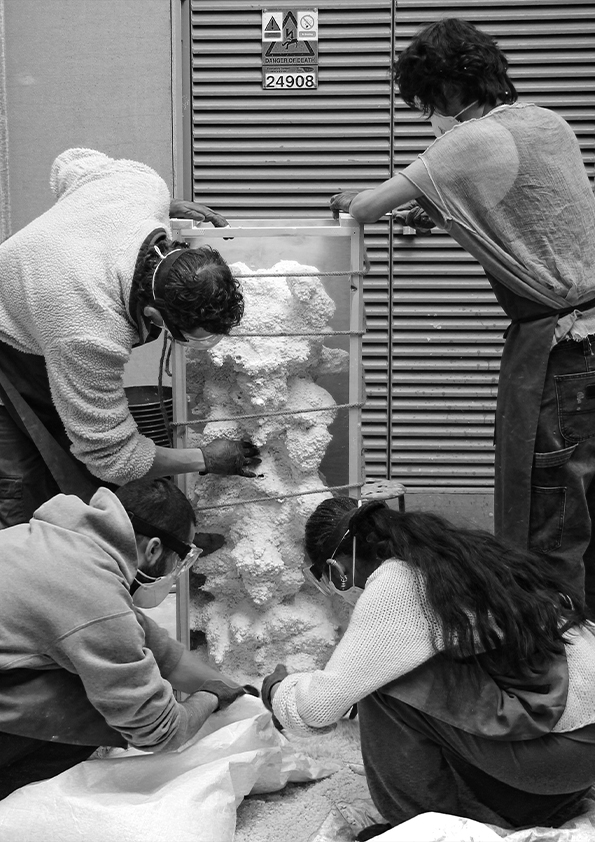
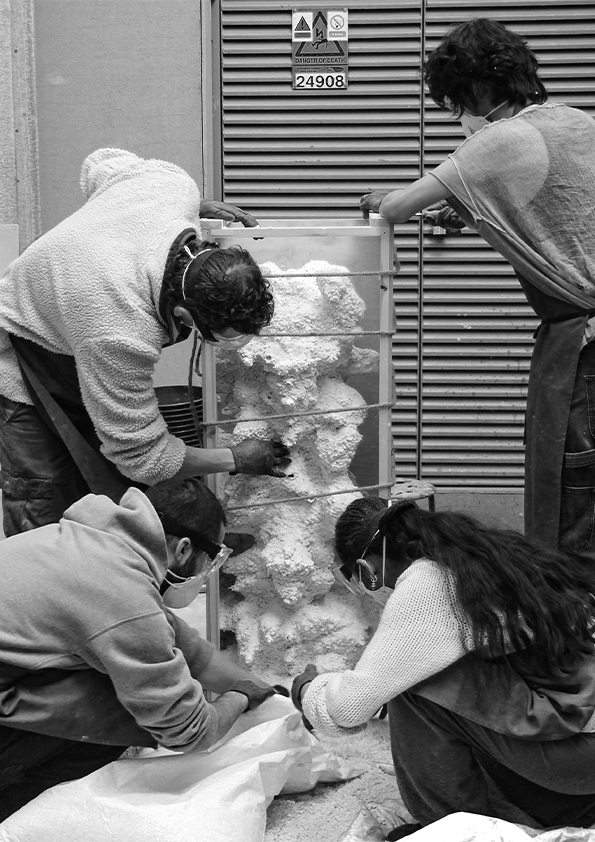
Chapter 1: switch images to JPG; update C3d3
Replace the six Chapter 1 PNG images with same-name JPG versions in
chapter1.html and library.html, and drop the now-unused PNGs (including
the orphaned C1d2.png). Update the C3d3 image with the new render.

diff --git a/library.html b/library.html
@@ -41,12 +41,12 @@
       <a href="#" class="details-btn" id="detailsBtn" style="display:none;">Details</a>
       <div class="image-stack" id="imageStack">
         <!-- Chapter 1 -->
-        <img src="webpics/C1d1.png" alt="C1d1" class="stack-card" data-chapter="1" data-index="0">
-        <img src="webpics/C1d3.png" alt="C1d3" class="stack-card" data-chapter="1" data-index="1">
-        <img src="webpics/C1d4.png" alt="C1d4" class="stack-card" data-chapter="1" data-index="2">
-        <img src="webpics/C1d5.png" alt="C1d5" class="stack-card" data-chapter="1" data-index="3">
-        <img src="webpics/C1d6.png" alt="C1d6" class="stack-card" data-chapter="1" data-index="4">
-        <img src="webpics/C1d7.png" alt="C1d7" class="stack-card" data-chapter="1" data-index="5">
+        <img src="webpics/C1d1.jpg" alt="C1d1" class="stack-card" data-chapter="1" data-index="0">
+        <img src="webpics/C1d3.jpg" alt="C1d3" class="stack-card" data-chapter="1" data-index="1">
+        <img src="webpics/C1d4.jpg" alt="C1d4" class="stack-card" data-chapter="1" data-index="2">
+        <img src="webpics/C1d5.jpg" alt="C1d5" class="stack-card" data-chapter="1" data-index="3">
+        <img src="webpics/C1d6.jpg" alt="C1d6" class="stack-card" data-chapter="1" data-index="4">
+        <img src="webpics/C1d7.jpg" alt="C1d7" class="stack-card" data-chapter="1" data-index="5">
         <!-- Chapter 2 -->
         <img src="webpics/C2d1.jpg" alt="C2d1" class="stack-card" data-chapter="2" data-index="0">
         <img src="webpics/C2d2.jpg" alt="C2d2" class="stack-card" data-chapter="2" data-index="1">

diff --git a/chapter1.html b/chapter1.html
@@ -54,12 +54,12 @@
         <p class="ref-text">AUGMENTED MATERIALITY: MODELLING WITH MATERIAL INDETERMINACY</p>
       </div>
       <div class="image-stack" id="imageStack">
-        <img src="webpics/C1d1.png" alt="Research image 1" class="stack-card" data-index="0">
-        <img src="webpics/C1d3.png" alt="Research image 2" class="stack-card" data-index="1">
-        <img src="webpics/C1d4.png" alt="Research image 3" class="stack-card" data-index="2">
-        <img src="webpics/C1d5.png" alt="Research image 4" class="stack-card" data-index="3">
-        <img src="webpics/C1d6.png" alt="Research image 5" class="stack-card" data-index="4">
-        <img src="webpics/C1d7.png" alt="Research image 6" class="stack-card" data-index="5">
+        <img src="webpics/C1d1.jpg" alt="Research image 1" class="stack-card" data-index="0">
+        <img src="webpics/C1d3.jpg" alt="Research image 2" class="stack-card" data-index="1">
+        <img src="webpics/C1d4.jpg" alt="Research image 3" class="stack-card" data-index="2">
+        <img src="webpics/C1d5.jpg" alt="Research image 4" class="stack-card" data-index="3">
+        <img src="webpics/C1d6.jpg" alt="Research image 5" class="stack-card" data-index="4">
+        <img src="webpics/C1d7.jpg" alt="Research image 6" class="stack-card" data-index="5">
       </div>
     </div><!-- .chapter-main -->
   </div><!-- .chapter-content -->
